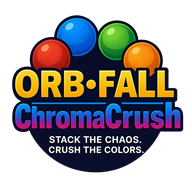
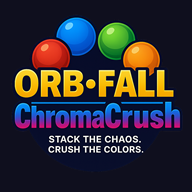
feat: update PWA assets, manifest, service worker, and styles
- manifest.json: updated app metadata and icon references for improved PWA support
- service-worker.js: revised caching strategy and asset handling
- icon-192-maskable.png: added new maskable icon (192x192) for adaptive icon support
- icon-192.png: replaced/updated standard 192x192 app icon
- icon-512-maskable.png: added new maskable icon (512x512) for adaptive icon support
- icon-512.png: replaced/updated standard 512x512 app icon
- main.css: updated global styles for UI improvements

diff --git a/src/styles/main.css b/src/styles/main.css
@@ -1811,15 +1811,16 @@ body::after {
 /* Floating "Go Ad-Free" button */
 .supporter-button {
 	position: fixed;
-	bottom: 20px;
-	right: 20px;
+	top: 12px;
+	right: 12px;
+	bottom: unset;
 	background: linear-gradient(135deg, #FFDD00, #FBB034);
 	color: #000;
-	padding: 10px 20px;
+	padding: 7px 14px;
 	border-radius: 25px;
 	text-decoration: none;
 	font-weight: bold;
-	font-size: 0.85rem;
+	font-size: 0.78rem;
 	box-shadow: 0 4px 12px rgba(251, 176, 52, 0.3);
 	z-index: 900;
 	transition: transform 0.2s, box-shadow 0.2s;

diff --git a/service-worker.js b/service-worker.js
@@ -12,7 +12,7 @@
  * ============================================================================
  */
 
-const CACHE_VERSION = 'orbfall-v1.0.3';
+const CACHE_VERSION = 'orbfall-v1.0.4';
 const CACHE_NAME = CACHE_VERSION;
 
 /**
@@ -69,7 +69,9 @@ const CORE_ASSETS = [
 
 	// Images
 	'/src/img/icon-192.png',
+	'/src/img/icon-192-maskable.png',
 	'/src/img/icon-512.png',
+	'/src/img/icon-512-maskable.png',
 	'/src/img/Logotrans.png',
 	'/src/img/GSTTrans.png',
 	'/src/img/GSTTransSm.png',
